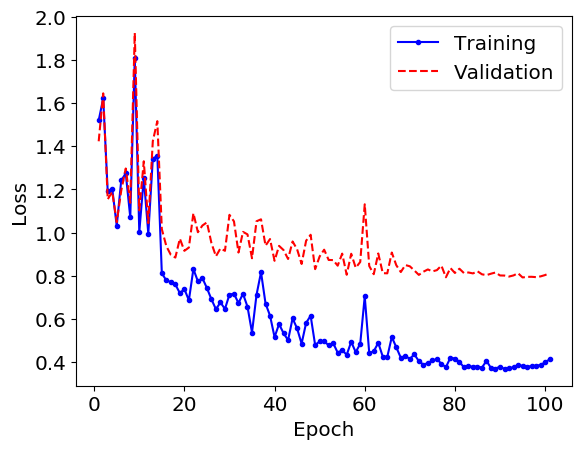
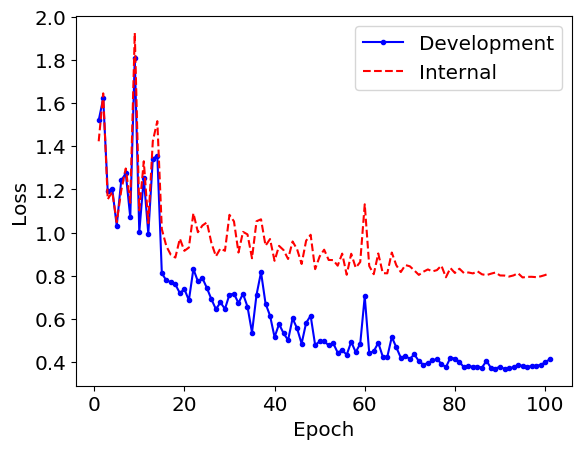
CreateLossPlot: configurable legend labels; internal test set graphs with correct labels

Changed region(s): [[0.7113, 0.0624, 0.9588, 0.1871], [0.6495, 0.0624, 0.6804, 0.1247], [0.6495, 0.1559, 0.6804, 0.1871]]

diff --git a/utility.py b/utility.py
@@ -265,7 +265,7 @@ def getBestRes(fileprefix, directory, k=1):
 ##########################
 #     PLOT FUNCTIONS     #
 ##########################
-def CreateLossPlot(filename):
+def CreateLossPlot(filename, training_legend="Training", validation_legend="Validation"):
     dir_path = os.path.dirname(os.path.realpath(__file__))
     
     train_loss = []
@@ -286,7 +286,7 @@ def CreateLossPlot(filename):
         plt.plot(epoch_count, train_loss, 'b.-')
         
         plt.plot(epoch_count, valid_loss, 'r--')
-        plt.legend(['Training', 'Validation'], fontsize= 'x-large')
+        plt.legend([training_legend, validation_legend], fontsize= 'x-large')
         
         plt.xlabel('Epoch', fontsize= 'x-large')
         plt.ylabel('Loss', fontsize= 'x-large')
